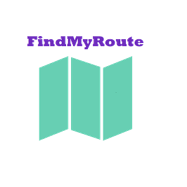
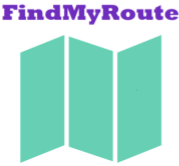
Fixed issues with white space

diff --git a/src/Images/index.js b/src/Images/index.js
@@ -1,9 +1,7 @@
-module.exports.logo = require("./FindMyRouteOriginal.png");
 module.exports.logo300 = require("./FindMyRoute300.png");
-module.exports.logo300 = require("./FindMyRoute600.png");
-module.exports.logo300 = require("./FindMyRoute900.png");
+module.exports.logo600 = require("./FindMyRoute600.png");
+module.exports.logo900 = require("./FindMyRoute900.png");
 
-// export const logo = require("./FindMyRouteOriginal.png");
 // export const logo300 = require("./FindMyRoute300.png");
 // export const logo600 = require("./FindMyRoute300.png");
 // export const logo900 = require("./FindMyRoute900.png");
